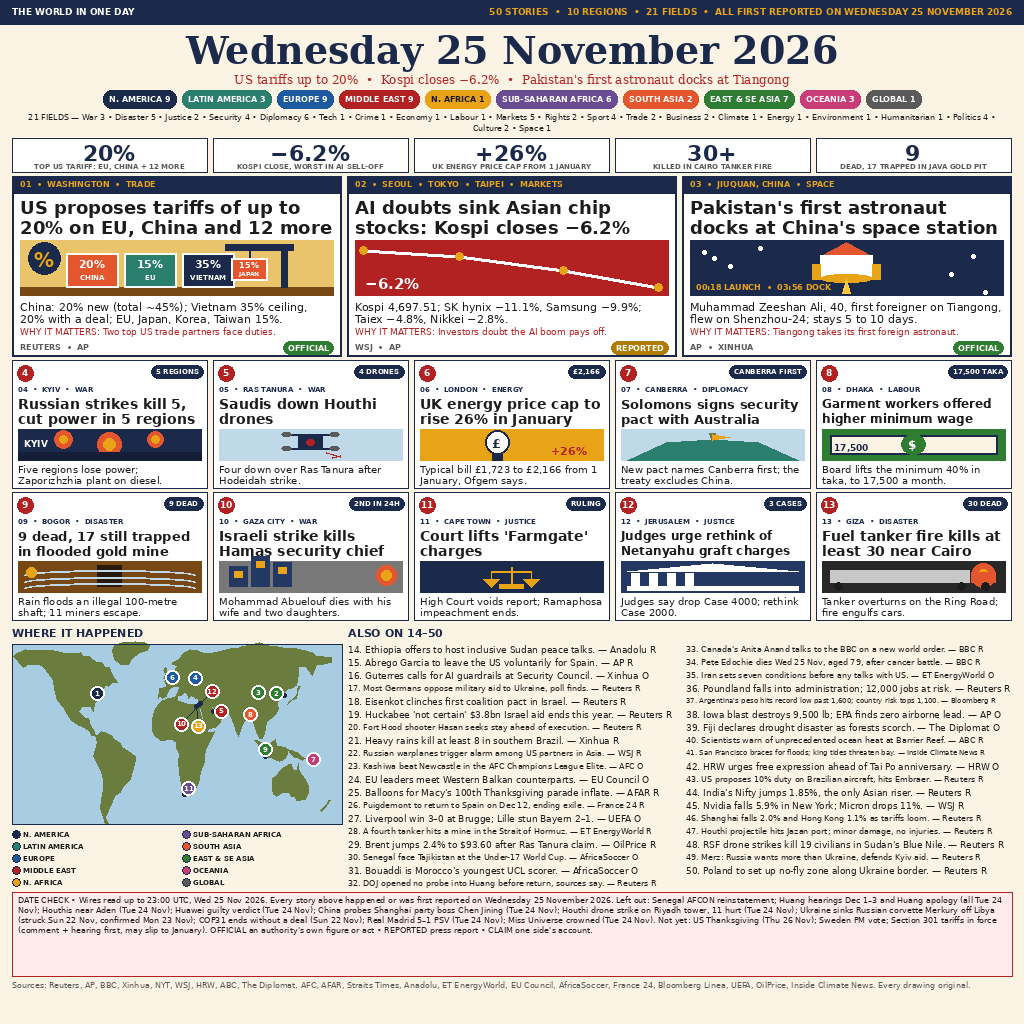
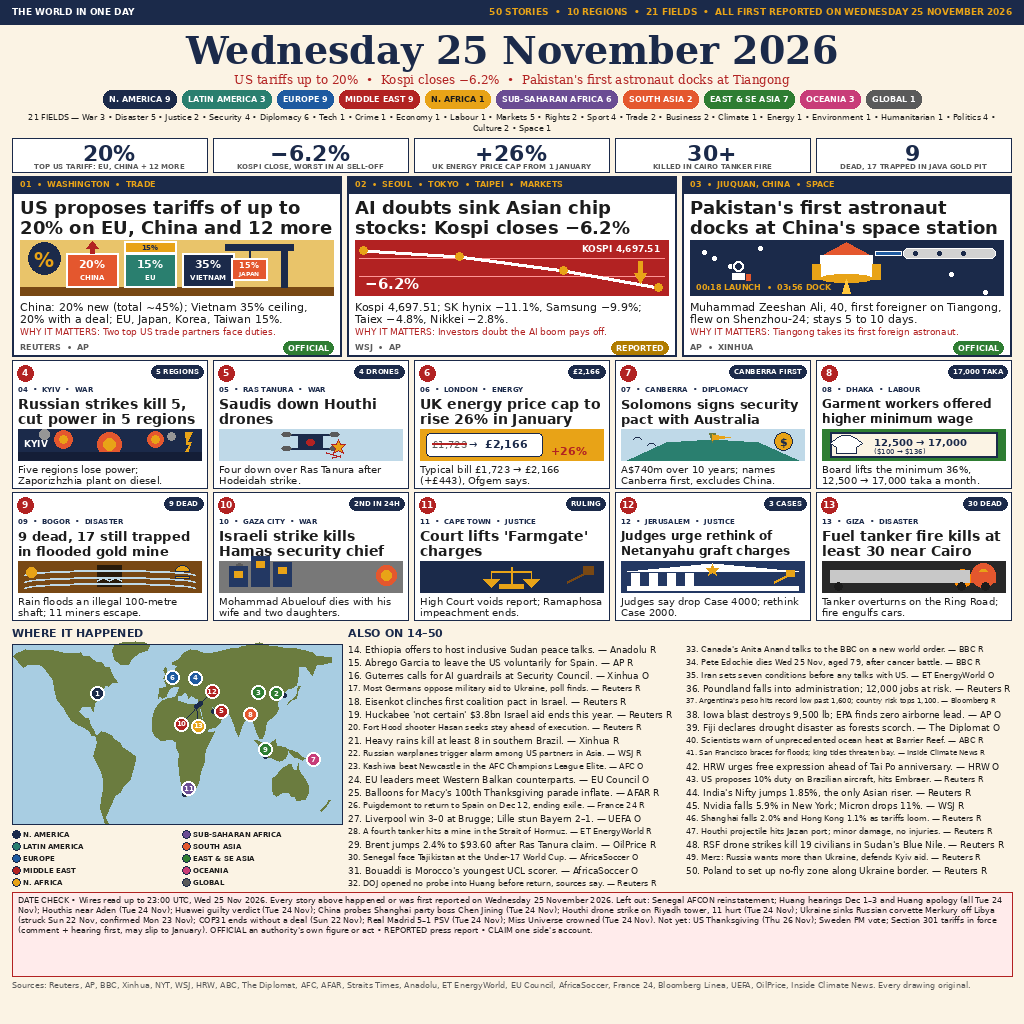
v8: enrich hero + small-panel art, verified concrete numbers 06/07/08, fix wage fact (17,000 not 17,500)

diff --git a/draw.py b/draw.py
@@ -152,18 +152,18 @@ STORIES = [
     dict(num=6, region="EUROPE", field="Energy",
          kicker="06  •  LONDON  •  ENERGY",
          headline="UK energy price cap to rise 26% in January",
-         deck="Typical bill £1,723 to £2,166 from 1 January, Ofgem says.",
+         deck="Typical bill £1,723 → £2,166 (+£443), Ofgem says.",
          stat="£2,166", art="energy"),
     dict(num=7, region="OCEANIA", field="Diplomacy",
          kicker="07  •  CANBERRA  •  DIPLOMACY",
          headline="Solomons signs security pact with Australia",
-         deck="New pact names Canberra first; the treaty excludes China.",
+         deck="A$740m over 10 years; names Canberra first, excludes China.",
          stat="CANBERRA FIRST", art="island"),
     dict(num=8, region="SOUTH ASIA", field="Labour",
          kicker="08  •  DHAKA  •  LABOUR",
          headline="Garment workers offered higher minimum wage",
-         deck="Board lifts the minimum 40% in taka, to 17,500 a month.",
-         stat="17,500 TAKA", art="wage"),
+         deck="Board lifts the minimum 36%, 12,500 → 17,000 taka a month.",
+         stat="17,000 TAKA", art="wage"),
     dict(num=9, region="EAST & SE ASIA", field="Disaster",
          kicker="09  •  BOGOR  •  DISASTER",
          headline="9 dead, 17 still trapped in flooded gold mine",
@@ -361,6 +361,16 @@ def art_tariffs(d, x, y, w, h):
         cfnt = font(7, bold=True)
         d.text((bx + 26 - d.textlength(country, font=cfnt) / 2, by + 20),
                country, font=cfnt, fill=WHITE)
+    # v8: stacked container on the EU box + red up-arrow over China
+    d.rectangle([x + 104, y + h - 54, x + 156, y + h - 42], fill=MUSTARD,
+                outline=WHITE, width=2)
+    sfnt = font(7, bold=True)
+    d.text((x + 130 - d.textlength("15%", font=sfnt) / 2, y + h - 52),
+           "15%", font=sfnt, fill=NAVY)
+    ax = x + 72
+    d.polygon([(ax - 6, y + h - 47), (ax + 6, y + h - 47), (ax, y + h - 54)],
+              fill=RED)
+    d.rectangle([ax - 2, y + h - 47, ax + 2, y + h - 42], fill=RED)
     # gantry crane, right: mast, jib, cable, hanging container (Japan 15%)
     d.rectangle([x + w - 52, y + 4, x + w - 46, y + h - 8], fill=NAVY)
     d.rectangle([x + w - 108, y + 4, x + w - 40, y + 10], fill=NAVY)
@@ -379,6 +389,13 @@ def art_tariffs(d, x, y, w, h):
 
 def art_chart(d, x, y, w, h):
     d.rectangle([x, y, x + w, y + h], fill=RED)
+    # v8: faint gridlines + KOSPI label + big down-arrow at the drop
+    for gy in (y + h // 3, y + 2 * h // 3):
+        d.line([x + 4, gy, x + w - 4, gy], fill=(255, 150, 150), width=1)
+    kfnt = font(9, bold=True)
+    lab = "KOSPI 4,697.51"
+    d.text((x + w - 8 - d.textlength(lab, font=kfnt), y + 3), lab,
+           font=kfnt, fill=WHITE)
     d.line([(x + 8, y + 10), (x + w // 3, y + 16), (x + 2 * w // 3, y + 30),
             (x + w - 10, y + h - 8)], fill=WHITE, width=4)
     for px, py in [(x + 8, y + 10), (x + w // 3, y + 16),
@@ -386,6 +403,10 @@ def art_chart(d, x, y, w, h):
         d.ellipse([px - 4, py - 4, px + 4, py + 4], fill=MUSTARD)
     d.text((x + 10, y + h - 20), "−6.2%", font=font(15, bold=True),
            fill=WHITE)
+    ex, ey = x + w - 10, y + h - 8
+    d.rectangle([ex - 20, ey - 26, ex - 16, ey - 14], fill=MUSTARD)
+    d.polygon([(ex - 24, ey - 14), (ex - 12, ey - 14), (ex - 18, ey - 4)],
+              fill=MUSTARD)
 
 
 def art_rocket(d, x, y, w, h):
@@ -393,6 +414,20 @@ def art_rocket(d, x, y, w, h):
     for sx, sy in [(14, 12), (40, 26), (70, 8), (w - 30, 16),
                    (w - 52, 34), (24, 18), (w - 18, 52)]:
         d.ellipse([x + sx - 2, y + sy - 2, x + sx + 2, y + sy + 2], fill=WHITE)
+    # v8: station module, top right (capsule + solar wing + windows) and
+    # a floating astronaut, mid-left - the docking reads at a glance
+    d.rectangle([x + w - 128, y + 11, x + w - 102, y + 15], fill=BLUE,
+                outline=WHITE, width=1)
+    d.rounded_rectangle([x + w - 100, y + 8, x + w - 8, y + 18], radius=5,
+                        fill=(210, 210, 210), outline=WHITE, width=1)
+    for wx in (x + w - 88, x + w - 64, x + w - 40):
+        d.ellipse([wx - 2, y + 11, wx + 2, y + 15], fill=NAVY)
+    d.ellipse([x + 42, y + 20, x + 54, y + 32], fill=WHITE,
+              outline=NAVY, width=1)
+    d.ellipse([x + 45, y + 23, x + 51, y + 29], fill=NAVY)
+    d.rectangle([x + 41, y + 32, x + 55, y + 40], fill=WHITE,
+                outline=NAVY, width=1)
+    d.rectangle([x + 56, y + 34, x + 60, y + 40], fill=CORAL)
     cx = x + w // 2
     bw = max(10, w // 12)
     nose = int(h * 0.30)
@@ -428,10 +463,23 @@ def art_island(d, x, y, w, h):
     d.polygon([(x + w // 2, y + int(h * 0.18)),
                (x + w // 2 + 18, y + int(h * 0.28)),
                (x + w // 2, y + int(h * 0.36))], fill=MUSTARD)
+    # v8: gold coin for the A$740m + birds in the sky
+    d.ellipse([x + w - 30, y + 3, x + w - 12, y + 21], fill=MUSTARD,
+              outline=NAVY, width=1)
+    d.text((x + w - 24, y + 6), "$", font=font(11, bold=True), fill=NAVY)
+    for bx, by in [(x + 12, y + 8), (x + 26, y + 14)]:
+        d.arc([bx, by, bx + 8, by + 5], 180, 360, fill=NAVY, width=1)
 
 
 def art_strikes(d, x, y, w, h):
     d.rectangle([x, y, x + w, y + h], fill=NAVY)
+    # v8: smoke puffs + a lightning bolt over the blasts
+    for sx, sy, r in [(x + 26, y + 5, 5), (x + w - 30, y + 7, 4)]:
+        d.ellipse([sx - r, sy - r, sx + r, sy + r], fill=(150, 150, 150))
+    d.polygon([(x + w - 16, y + 3), (x + w - 9, y + 3), (x + w - 14, y + 13),
+               (x + w - 10, y + 13), (x + w - 18, y + 25),
+               (x + w - 14, y + 25), (x + w - 11, y + 15),
+               (x + w - 15, y + 15)], fill=MUSTARD)
     for cx, cy, r in [(x + w // 4, y + h // 3, 9),
                       (x + w // 2, y + h // 2, 12),
                       (x + 3 * w // 4, y + h // 3, 8)]:
@@ -454,28 +502,44 @@ def art_drone(d, x, y, w, h):
     d.ellipse([cx - 4, cy - 3, cx + 4, cy + 3], fill=RED)
     d.line([cx + 16, cy + 10, cx + 30, cy + 14], fill=RED, width=2)
     d.line([cx + 30, cy + 14, cx + 22, cy + 16], fill=RED, width=2)
+    # v8: intercept burst where the drone is hit
+    bx, by = cx + 28, cy + 4
+    d.polygon([(bx, by - 7), (bx + 2, by - 2), (bx + 7, by - 2),
+               (bx + 3, by + 2), (bx + 5, by + 7), (bx, by + 4),
+               (bx - 5, by + 7), (bx - 3, by + 2), (bx - 7, by - 2),
+               (bx - 2, by - 2)], fill=MUSTARD, outline=RED)
 
 
 def art_energy(d, x, y, w, h):
+    # v8: the bill itself - old figure struck through, new figure bold
     d.rectangle([x, y, x + w, y + h], fill=MUSTARD)
-    cx, cy = x + w // 2 - 14, y + h // 2
-    d.ellipse([cx - 12, cy - 14, cx + 12, cy + 10], fill=WHITE,
-              outline=NAVY, width=2)
-    d.rectangle([cx - 5, cy + 10, cx + 5, cy + 16], fill=NAVY)
-    d.text((cx - 5, cy - 9), "£", font=font(13, bold=True), fill=NAVY)
+    d.rounded_rectangle([x + 6, y + 4, x + 122, y + h - 4], radius=4,
+                        fill=WHITE, outline=NAVY, width=1)
+    ofnt = font(10)
+    d.text((x + 12, y + h // 2 - 6), "£1,723", font=ofnt, fill=GREY)
+    ow = d.textlength("£1,723", font=ofnt)
+    d.line([x + 12, y + h // 2 - 1, x + 12 + ow, y + h // 2 - 1],
+           fill=RED, width=2)
+    d.text((x + 14 + ow, y + h // 2 - 6), "→", font=ofnt, fill=NAVY)
+    d.text((x + 30 + ow, y + h // 2 - 7), "£2,166",
+           font=font(11, bold=True), fill=NAVY)
     d.text((x + w - 52, y + h - 16), "+26%", font=font(11, bold=True),
            fill=RED)
 
 
 def art_wage(d, x, y, w, h):
+    # v8: shirt + the verified range 12,500 -> 17,000 taka ($100 -> $136)
     d.rectangle([x, y, x + w, y + h], fill=GREEN)
-    d.rectangle([x + 8, y + 6, x + w - 8, y + h - 6], fill=CREAM,
+    d.rectangle([x + 8, y + 3, x + w - 8, y + h - 3], fill=CREAM,
                 outline=NAVY, width=2)
-    d.ellipse([x + w // 2 - 12, y + h // 2 - 10, x + w // 2 + 12,
-               y + h // 2 + 10], fill=GREEN)
-    d.text((x + w // 2 - 5, y + h // 2 - 7), "$", font=font(12, bold=True),
-           fill=WHITE)
-    d.text((x + 12, y + h - 18), "17,500", font=font(9, bold=True), fill=NAVY)
+    sx, sy = x + 12, y + 6
+    d.polygon([(sx + 8, sy), (sx + 16, sy), (sx + 22, sy + 3),
+               (sx + 28, sy + 8), (sx + 22, sy + 12), (sx + 22, sy + 18),
+               (sx + 2, sy + 18), (sx + 2, sy + 12), (sx - 4, sy + 8),
+               (sx + 2, sy + 3)], fill=WHITE, outline=NAVY)
+    d.text((x + 52, y + 7), "12,500 → 17,000", font=font(10, bold=True),
+           fill=NAVY)
+    d.text((x + 52, y + 18), "($100 → $136)", font=font(7), fill=NAVY)
 
 
 def art_mine(d, x, y, w, h):
@@ -486,10 +550,22 @@ def art_mine(d, x, y, w, h):
         yy = y + int(h * (0.30 + i * 0.22))
         d.arc([x + 6, yy, x + w - 6, yy + 10], 180, 360, fill=SKY, width=2)
     d.ellipse([x + 8, y + 6, x + 18, y + 16], fill=MUSTARD)
+    # v8: flood water zigzag at the shaft base + a miner's helmet, top right
+    cx = x + w // 2
+    d.line([(cx - 12, y + h - 12), (cx - 6, y + h - 15), (cx, y + h - 12),
+            (cx + 6, y + h - 15), (cx + 12, y + h - 12)], fill=SKY, width=2)
+    d.pieslice([x + w - 26, y + 4, x + w - 12, y + 16], 180, 360,
+               fill=MUSTARD, outline=NAVY)
+    d.rectangle([x + w - 26, y + 15, x + w - 12, y + 17], fill=MUSTARD,
+                outline=NAVY)
 
 
 def art_gaza(d, x, y, w, h):
     d.rectangle([x, y, x + w, y + h], fill=(120, 120, 120))
+    # v8: smoke rising over the buildings
+    for sx, sy, r in [(x + 20, y + 6, 4), (x + 44, y + 4, 5),
+                      (x + 66, y + 7, 4)]:
+        d.ellipse([sx - r, sy - r, sx + r, sy + r], fill=(90, 90, 90))
     for i, bh in enumerate([20, 30, 24]):
         bx = x + 10 + i * 22
         d.rectangle([bx, y + h - 6 - bh, bx + 18, y + h - 6], fill=NAVY2)
@@ -509,6 +585,11 @@ def art_scales(d, x, y, w, h):
         d.polygon([(px - 8, y + 18), (px + 8, y + 18), (px, y + 26)],
                   fill=MUSTARD)
     d.rectangle([cx - 12, y + h - 8, cx + 12, y + h - 4], fill=MUSTARD)
+    # v8: gavel at the base, right
+    d.line([x + w - 36, y + h - 10, x + w - 16, y + h - 20], fill=BROWN,
+           width=3)
+    d.rectangle([x + w - 20, y + h - 26, x + w - 10, y + h - 18],
+                fill=BROWN)
 
 
 def art_court(d, x, y, w, h):
@@ -519,10 +600,23 @@ def art_court(d, x, y, w, h):
         bx = x + 10 + i * 18
         d.rectangle([bx, y + 12, bx + 8, y + h - 6], fill=WHITE)
     d.rectangle([x + 6, y + h - 6, x + w - 6, y + h - 2], fill=WHITE)
+    # v8: gold star on the pediment + gavel on the steps, right
+    cx = x + w // 2
+    d.polygon([(cx, y + 3), (cx + 2, y + 7), (cx + 6, y + 7), (cx + 3, y + 10),
+               (cx + 4, y + 14), (cx, y + 11), (cx - 4, y + 14),
+               (cx - 3, y + 10), (cx - 6, y + 7), (cx - 2, y + 7)],
+              fill=MUSTARD)
+    d.line([x + w - 30, y + h - 10, x + w - 14, y + h - 18], fill=MUSTARD,
+           width=3)
+    d.rectangle([x + w - 18, y + h - 22, x + w - 10, y + h - 16],
+                fill=MUSTARD)
 
 
 def art_tanker(d, x, y, w, h):
     d.rectangle([x, y, x + w, y + h], fill=(40, 40, 40))
+    # v8: second flame tongue beside the main fire
+    d.ellipse([x + w - 52, y + 8, x + w - 34, y + 26], fill=(255, 140, 0))
+    d.ellipse([x + w - 48, y + 12, x + w - 38, y + 22], fill=MUSTARD)
     d.ellipse([x + w - 34, y + 2, x + w - 10, y + 26], fill=CORAL)
     d.ellipse([x + w - 28, y + 8, x + w - 16, y + 20], fill=MUSTARD)
     d.rectangle([x + 8, y + h - 22, x + w - 36, y + h - 10], fill=(200, 200, 200))
